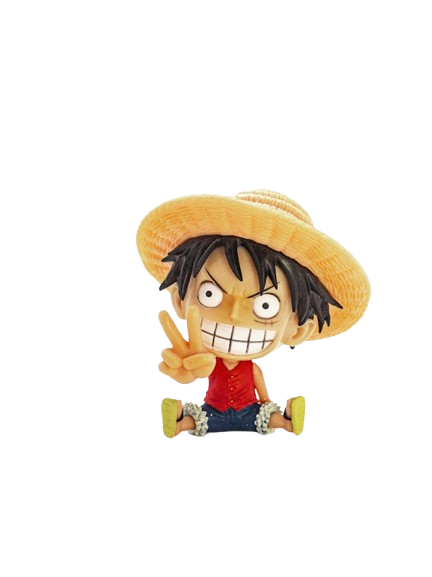
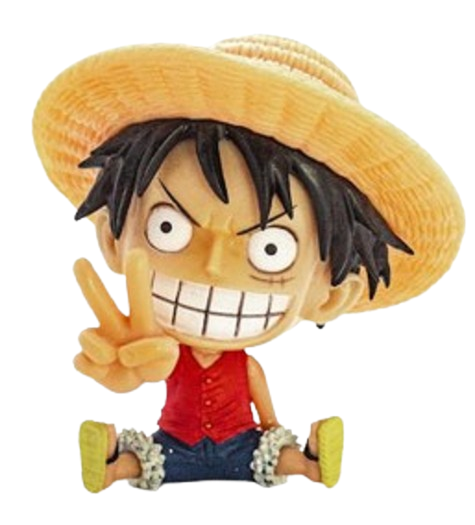
kortet har nå en beskrivelse og bildet er croppet

diff --git a/index.html b/index.html
@@ -8,246 +8,57 @@
     <link rel="preconnect" href="https://fonts.googleapis.com" />
     <link rel="preconnect" href="https://fonts.gstatic.com" crossorigin />
     <link
-      href="https://fonts.googleapis.com/css2?family=Bangers&display=swap"
+      href="https://fonts.googleapis.com/css2?family=Bangers&family=Oswald:wght@200..700&display=swap"
       rel="stylesheet"
     />
   </head>
   <body>
-    <header><h1>Heltekort fra One Piece</h1></header>
-    <main>
-      <section class="hero-cards">
-        <article class="card-container">
-          <figure class="img-container">
-            <img
-              src="/images/luffy.png"
-              alt="a toy figure version of Luffy, grinning and showing a peace sign."
-            />
-          </figure>
-          <div class="details-container">
-            <h2 class="name">Luffy</h2>
-            <h3 class="occupation">Pirat</h3>
-            <div class="card-details">
-              <div class="item">
-                <p class="value">17</p>
-                <p class="label">Alder</p>
+    <div class="all-container">
+      <div class="header-container">
+        <header><h1>Heltekort fra One Piece</h1></header>
+      </div>
+      <div class="rest-container">
+        <main>
+          <section class="hero-cards">
+            <article class="card-container">
+              <figure class="img-container">
+                <img
+                  src="/images/luffy.png"
+                  alt="Luffy som leketøysfigur mens han gliser og viser fredstegnet."
+                />
+              </figure>
+              <div class="details-container">
+                <h2 class="name">Luffy</h2>
+                <h3 class="occupation">Pirat</h3>
+                <div class="card-details">
+                  <div class="item">
+                    <p class="value">17</p>
+                    <p class="label">Alder</p>
+                  </div>
+                  <div class="item">
+                    <p class="value">172cm</p>
+                    <p class="label">Høyde</p>
+                  </div>
+                  <div class="item">
+                    <p class="value">64kg</p>
+                    <p class="label">Vekt</p>
+                  </div>
+                </div>
+                <div class="description">
+                  <p class="description-content">
+                    Luffy er en pirat med store ambisjoner; han vil finne One
+                    Piece og bli piratkonge. I motsetning til andre pirater
+                    bruker han evnen sin til å skape venner og tro på folks
+                    drømmer for å nå sitt mål.
+                  </p>
+                </div>
               </div>
-              <div class="item">
-                <p class="value">172cm</p>
-                <p class="label">Høyde</p>
-              </div>
-              <div class="item">
-                <p class="value">64kg</p>
-                <p class="label">Vekt</p>
-              </div>
-            </div>
-            <div class="description">
-              <p class="description-content">
-                Lorem ipsum dolor sit amet consectetur adipisicing elit. Quae
-                rem quis tenetur voluptatibus placeat? Debitis ipsum dicta
-                impedit nihil dignissimos quis? Ducimus quia dolorum quae.
-              </p>
-            </div>
-          </div>
-        </article>
-        <!-- <article class="card-container">
-          <figure class="img-container">
-            <img
-              src="/images/luffy.png"
-              alt="a toy figure version of Luffy, grinning and showing a peace sign."
-            />
-          </figure>
-          <div class="details-container">
-            <h2 class="name">Luffy</h2>
-            <h3 class="occupation">Pirat</h3>
-            <div class="card-details">
-              <div class="item">
-                <p class="value">17</p>
-                <p class="label">Alder</p>
-              </div>
-              <div class="item">
-                <p class="value">172cm</p>
-                <p class="label">Høyde</p>
-              </div>
-              <div class="item">
-                <p class="value">64kg</p>
-                <p class="label">Vekt</p>
-              </div>
-            </div>
-            <div class="description">
-              <p class="description-content">
-                Lorem ipsum dolor sit amet consectetur adipisicing elit. Quae
-                rem quis tenetur voluptatibus placeat? Debitis ipsum dicta
-                impedit nihil dignissimos quis? Ducimus quia dolorum quae.
-              </p>
-            </div>
-          </div>
-        </article>
-        <article class="card-container">
-          <figure class="img-container">
-            <img
-              src="/images/luffy.png"
-              alt="a toy figure version of Luffy, grinning and showing a peace sign."
-            />
-          </figure>
-          <div class="details-container">
-            <h2 class="name">Luffy</h2>
-            <h3 class="occupation">Pirat</h3>
-            <div class="card-details">
-              <div class="item">
-                <p class="value">17</p>
-                <p class="label">Alder</p>
-              </div>
-              <div class="item">
-                <p class="value">172cm</p>
-                <p class="label">Høyde</p>
-              </div>
-              <div class="item">
-                <p class="value">64kg</p>
-                <p class="label">Vekt</p>
-              </div>
-            </div>
-            <div class="description">
-              <p class="description-content">
-                Lorem ipsum dolor sit amet consectetur adipisicing elit. Quae
-                rem quis tenetur voluptatibus placeat? Debitis ipsum dicta
-                impedit nihil dignissimos quis? Ducimus quia dolorum quae.
-              </p>
-            </div>
-          </div>
-        </article>
-        <article class="card-container">
-          <figure class="img-container">
-            <img
-              src="/images/luffy.png"
-              alt="a toy figure version of Luffy, grinning and showing a peace sign."
-            />
-          </figure>
-          <div class="details-container">
-            <h2 class="name">Luffy</h2>
-            <h3 class="occupation">Pirat</h3>
-            <div class="card-details">
-              <div class="item">
-                <p class="value">17</p>
-                <p class="label">Alder</p>
-              </div>
-              <div class="item">
-                <p class="value">172cm</p>
-                <p class="label">Høyde</p>
-              </div>
-              <div class="item">
-                <p class="value">64kg</p>
-                <p class="label">Vekt</p>
-              </div>
-            </div>
-            <div class="description">
-              <p class="description-content">
-                Lorem ipsum dolor sit amet consectetur adipisicing elit. Quae
-                rem quis tenetur voluptatibus placeat? Debitis ipsum dicta
-                impedit nihil dignissimos quis? Ducimus quia dolorum quae.
-              </p>
-            </div>
-          </div>
-        </article>
-        <article class="card-container">
-          <figure class="img-container">
-            <img
-              src="/images/luffy.png"
-              alt="a toy figure version of Luffy, grinning and showing a peace sign."
-            />
-          </figure>
-          <div class="details-container">
-            <h2 class="name">Luffy</h2>
-            <h3 class="occupation">Pirat</h3>
-            <div class="card-details">
-              <div class="item">
-                <p class="value">17</p>
-                <p class="label">Alder</p>
-              </div>
-              <div class="item">
-                <p class="value">172cm</p>
-                <p class="label">Høyde</p>
-              </div>
-              <div class="item">
-                <p class="value">64kg</p>
-                <p class="label">Vekt</p>
-              </div>
-            </div>
-            <div class="description">
-              <p class="description-content">
-                Lorem ipsum dolor sit amet consectetur adipisicing elit. Quae
-                rem quis tenetur voluptatibus placeat? Debitis ipsum dicta
-                impedit nihil dignissimos quis? Ducimus quia dolorum quae.
-              </p>
-            </div>
-          </div>
-        </article>
-        <article class="card-container">
-          <figure class="img-container">
-            <img
-              src="/images/luffy.png"
-              alt="a toy figure version of Luffy, grinning and showing a peace sign."
-            />
-          </figure>
-          <div class="details-container">
-            <h2 class="name">Luffy</h2>
-            <h3 class="occupation">Pirat</h3>
-            <div class="card-details">
-              <div class="item">
-                <p class="value">17</p>
-                <p class="label">Alder</p>
-              </div>
-              <div class="item">
-                <p class="value">172cm</p>
-                <p class="label">Høyde</p>
-              </div>
-              <div class="item">
-                <p class="value">64kg</p>
-                <p class="label">Vekt</p>
-              </div>
-            </div>
-            <div class="description">
-              <p class="description-content">
-                Lorem ipsum dolor sit amet consectetur adipisicing elit. Quae
-                rem quis tenetur voluptatibus placeat? Debitis ipsum dicta
-                impedit nihil dignissimos quis? Ducimus quia dolorum quae.
-              </p>
-            </div>
-          </div>
-        </article>
-        <article class="card-container">
-          <figure class="img-container">
-            <img
-              src="/images/luffy.png"
-              alt="a toy figure version of Luffy, grinning and showing a peace sign."
-            />
-          </figure>
-          <div class="details-container">
-            <h2 class="name">Luffy</h2>
-            <h3 class="occupation">Pirat</h3>
-            <div class="card-details">
-              <div class="item">
-                <p class="value">17</p>
-                <p class="label">Alder</p>
-              </div>
-              <div class="item">
-                <p class="value">172cm</p>
-                <p class="label">Høyde</p>
-              </div>
-              <div class="item">
-                <p class="value">64kg</p>
-                <p class="label">Vekt</p>
-              </div>
-            </div>
-            <div class="description">
-              <p class="description-content">
-                Lorem ipsum dolor sit amet consectetur adipisicing elit. Quae
-                rem quis tenetur voluptatibus placeat? Debitis ipsum dicta
-                impedit nihil dignissimos quis? Ducimus quia dolorum quae.
-              </p>
-            </div>
-          </div>
-        </article> -->
-      </section>
-    </main>
+            </article>
+          </section>
+        </main>
+
+        <footer>©Brian Kodehode</footer>
+      </div>
+    </div>
   </body>
 </html>

diff --git a/style.css b/style.css
@@ -6,6 +6,7 @@
 
 body {
   min-height: 100svh;
+  background-color: rgb(255, 149, 44);
 }
 
 img {
@@ -38,6 +39,11 @@ h2 {
 }
 
 h1 {
+  font-family: "Oswald", serif;
+  text-align: center;
+}
+
+footer {
   text-align: center;
 }
 
@@ -45,6 +51,18 @@ h1 {
   font-family: "Bangers", sans-serif;
   font-weight: 400;
   font-style: normal;
+}
+
+.oswald-h1 {
+  font-family: "Oswald", serif;
+  font-optical-sizing: auto;
+  font-weight: 200;
+  font-style: normal;
+}
+
+.main-container {
+  display: flex;
+  flex-direction: column;
 }
 
 .hero-cards {
@@ -56,11 +74,12 @@ h1 {
 }
 
 .card-container {
-  border: solid 1px black;
-  background-color: linen;
+  border: solid 1px rgb(255, 186, 117);
+  background-color: rgb(255, 199, 143);
   color: navy;
   display: flex;
-  max-width: 500px;
+  max-width: 490px;
+  max-height: auto;
   border-radius: 15px;
 }
 
